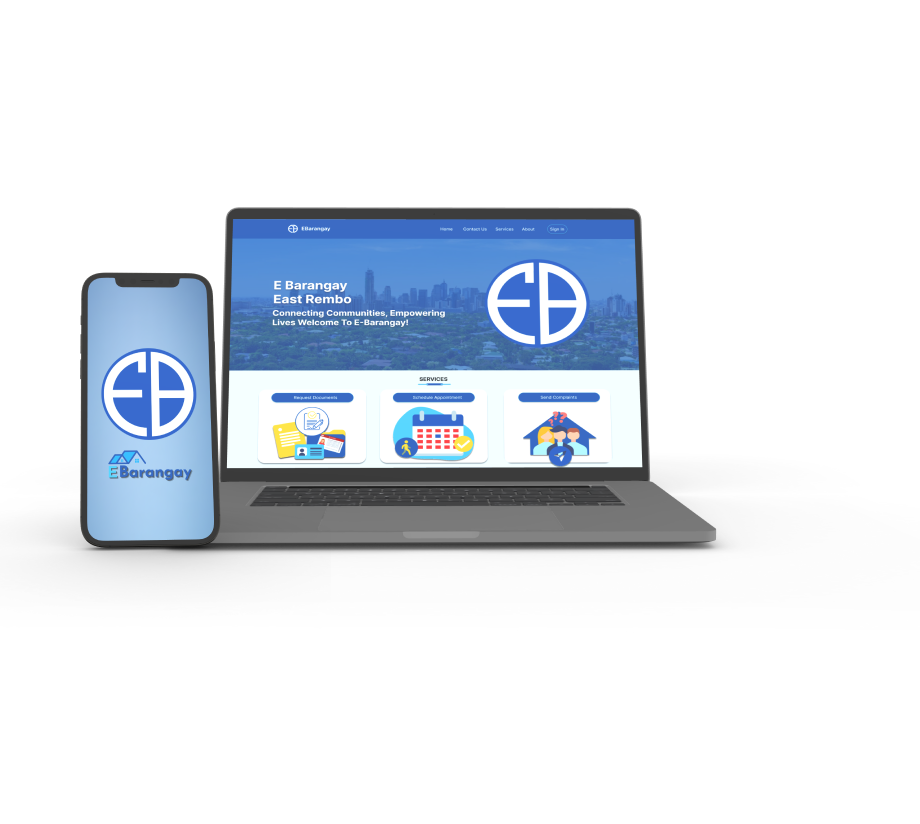
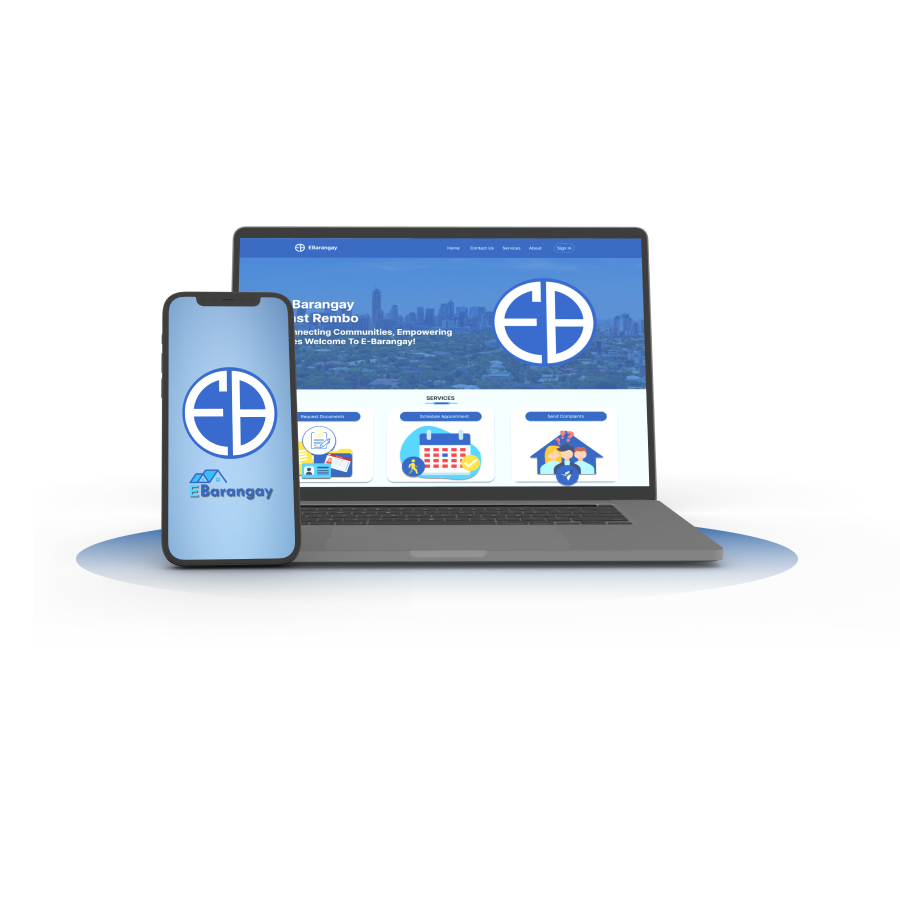
new design

Changed region(s): [[0.0622, 0.2427, 0.9022, 0.6978], [0.3111, 0.2731, 0.3733, 0.3034]]

diff --git a/resources/views/home.blade.php b/resources/views/home.blade.php
@@ -57,6 +57,10 @@
   background-size: cover;
 
 }
+#services {
+    background: radial-gradient(#9cc9ed 55%, #d6edf8 90%);
+}
+
 #header{
   background-color:transparent;
 }
@@ -248,29 +252,51 @@ label {
 .icon-box{
   border-radius:25px;
 }
+#about {
+   background:  linear-gradient(
+    to right,
+    #fefefe 10%,
+    #9cc9ed 50%,
+    #fefefe 90%
+    
+  );
+}
+.container1{
+  border-radius: 25px; 
+  background-color: white;
+  width: 1110px;
+  height: 470px;
+}
+.container1{
+  height:550px;
+  
+}
+.container1 img{
+ margin-left:20px;
+  
+}
 </style>
 </head>
 
 <body>
 
-  <!-- ======= Header ======= -->
-  <header id="header" class="fixed-top ">
+<header id="header" class="fixed-top ">
     <div class="container d-flex align-items-center">
-
-    <h1 class="logo me-auto"><a href="index.php"><span>E</span>Barangay</a></h1>
+    <img src="assets/img/logo3.png">
+    <h1 class="logo me-auto"><a href="index.php">EBarangay</a></h1>
     
 
       <nav id="navbar" class="navbar">
         <ul>
           <li><a class="nav-link scrollto active" href="#hero">Home</a></li>
-          <li><a class="nav-link scrollto" href="#about">Contact Us</a></li>
+          <li><a class="nav-link scrollto" href="#contact">Contact Us</a></li>
      <li><a class="nav-link scrollto" href="#services">Services</a></li>
+          <li><a class="nav-link scrollto" href="#about">About</a></li>
               
           </li>
-          <li><a class="nav-link scrollto" href="#contact">About</a></li>
           <div class="container">
   <button type="button" class="getstarted scrollto" data-toggle="modal" data-target="#loginModal">
-  Sign in
+  Sign In
   </button>  
 </div>
           
@@ -287,7 +313,7 @@ label {
     <div class="container">
       <div class="row">
         <div class="col-lg-6 d-flex flex-column justify-content-center pt-4 pt-lg-0 order-2 order-lg-1" data-aos="fade-up" data-aos-delay="200">
-        <h1>EBarangay</h1>
+        <!-- <h1>EBarangay</h1> -->
          <h1> East Rembo</h1>
           <h2>Connecting Communities, Empowering Lives Welcome to E-Barangay!</h2>
           <div class="d-flex justify-content-center justify-content-lg-start">
@@ -304,9 +330,9 @@ label {
   </section><!-- End Hero -->
 
   <main id="main">
-  <section  style=" background: linear-gradient(rgba(67, 171, 224, 0.22), rgba(67, 171, 224, 0.22));padding-left:60px;"; id="services" class="services section-bg">
+  <section  style="padding-left:60px;"; id="services" class="services section-bg">
 
-<div  class="container2" data-aos="fade-up">
+<div class="container2" data-aos="fade-up">
 
   <!-- <div class="section-title">
     <h2>Services</h2>
@@ -315,7 +341,7 @@ label {
   
   <div class="row">
     
-  <div class="section-title">
+  <div   class="section-title">
           <h2>Services</h2>
         </div>
 
@@ -330,14 +356,14 @@ label {
 
     <div class="col-xl-4 col-md-6 d-flex align-items-stretch mt-4 mt-md-0" data-aos="zoom-in" data-aos-delay="200">
       <div class="icon-box">
-       <div class="button">Request Documents</div>
+       <div class="button">Schedule Appointment</div>
         <img src="assets/img/image3.png" style="height:250px;width: 380px;" >
       </div>
     </div>
 
     <div class="col-xl-4 col-md-6 d-flex align-items-stretch mt-4 mt-xl-0" data-aos="zoom-in" data-aos-delay="300">
       <div class="icon-box">
-      <div class="button">Request Documents</div>
+      <div class="button">Send Complaints</div>
         <img src="assets/img/image4.png" style="height:250px;width: 380px;" >
       </div>
     </div>
@@ -357,8 +383,8 @@ label {
             <img src="assets/img/image6.png" class="img-fluid" >
 
           </div>
-         <div class="col-lg-6 pt-4 pt-lg-0 content" data-aos="fade-left" data-aos-delay="100">
-            <h1 id="yellow" style="font-weight: bold; text-shadow: 3px 0 6px #888888; color: #024AA2;"><span>E</span> Barangay</h1>
+         <div class="col-lg-6 pt-4 pt-lg-0 content text-justify" data-aos="fade-left" data-aos-delay="100">
+            <h1 id="yellow" style="font-weight: bold; text-shadow: 3px 0 6px #888888; color: #024AA2;"><span style="color:yellow";>E</span> Barangay</h1>
             <p1 style="color: #024AA2;">Say goodbye to document request hassle and hello to convenience with E Barangay - your one-stop shop for barangay services!"
             </p1> <br>
             <br>
@@ -405,7 +431,7 @@ label {
           <div class="col-lg-6 pt-4 pt-lg-0 content" data-aos="fade-left" data-aos-delay="100">
             <h3 style="font-size: 4em; color: #024AA2;">
               <strong>Clean Up Drive</strong></h3>
-            <p>
+            <p class="text-justify" style="padding-right:20px;padding-left:20px;padding-bottom:20px;"  >
               It is the program wherein each barangay would participate in cleaningtheir environment, this would be done weekly and at the end of the month, the barangay that observed cleanliness in their community would be recognized and would earn a point for future useIt is the program wherein each barangay would participate in cleaningtheir environment, this would be done weekly and at the end of the month, the barangay that observed cleanliness in their community would be recognized and would earn a point for future useIt is the program wherein each barangay would participate in cleaningtheir environment, this would be done weekly and at the end of the month, the barangay that observed cleanliness in their community would be recognized and would earn a point for future use.
             </p>
             <a href="#" class="btn-learn-more" style="border-radius: 25px; color: #024AA2;">Read More</a>
@@ -419,28 +445,28 @@ label {
 
      <div class="container-fluid" data-aos="fade-up">
 
-        <div class="row">
+     <div class="row">
 
-          <div class="col-lg-7 d-flex flex-column justify-content-center align-items-stretch  order-2 order-lg-1">
+<div class="col-lg-7 d-flex flex-column justify-content-center align-items-stretch  order-2 order-lg-1">
 
-            <div class="content">
-              <h3 style="font-size: 4em;color: #024AA2;"><strong>BAYANIHAN</strong></h3>
-              <br>
-              <p>It is the program wherein each barangay would participate in cleaningtheir environment, this would be done weekly and at the end of the month, the barangay that observed cleanliness in their community would be recognized and would earn a point for future useIt is the program wherein each barangay would participate in cleaningtheir environment, this would be done weekly and at the end of the month, the barangay that observed cleanliness in their community would be recognized and would earn a point for future useIt is the program wherein each barangay would participate in cleaningtheir environment, this would be done weekly and at the end of the month, the barangay that observed cleanliness in their community would be recognized and would earn a point for future use.</p>
-               <a href="#" class="btn-learn-more" style="border-radius: 25px; color: #024AA2;">Read More</a>
-            </div>
+  <div class="content text-justify">
+    <h3 style="font-size: 4em;color: #024AA2;"><strong>BAYANIHAN</strong></h3>
+    <br>
+    <p>It is the program wherein each barangay would participate in cleaningtheir environment, this would be done weekly and at the end of the month, the barangay that observed cleanliness in their community would be recognized and would earn a point for future useIt is the program wherein each barangay would participate in cleaningtheir environment, this would be done weekly and at the end of the month, the barangay that observed cleanliness in their community would be recognized and would earn a point for future useIt is the program wherein each barangay would participate in cleaningtheir environment, this would be done weekly and at the end of the month, the barangay that observed cleanliness in their community would be recognized and would earn a point for future use.</p>
+     <a href="#" class="btn-learn-more" style="border-radius: 25px; color: #024AA2;">Read More</a>
+  </div>
 
-           
+ 
 
-          </div>
+</div>
 
-        <div class="col-lg-5 align-items-stretch order-1 order-lg-2" data-aos="fade-right" data-aos-delay="100">
-            <img src="assets/img/image9.png"  class="img-fluid">
-          </div>
+<div class="col-lg-5 align-items-stretch order-1 order-lg-2" data-aos="fade-right" data-aos-delay="100">
+  <img src="assets/img/bayan.png"  class="img-fluid">
+</div>
 
-        </div>
+</div>
 
-      </div>
+</div>
     </section><!-- End Why Us Section -->
 
     <!-- ======= Portfolio Section ======= -->
